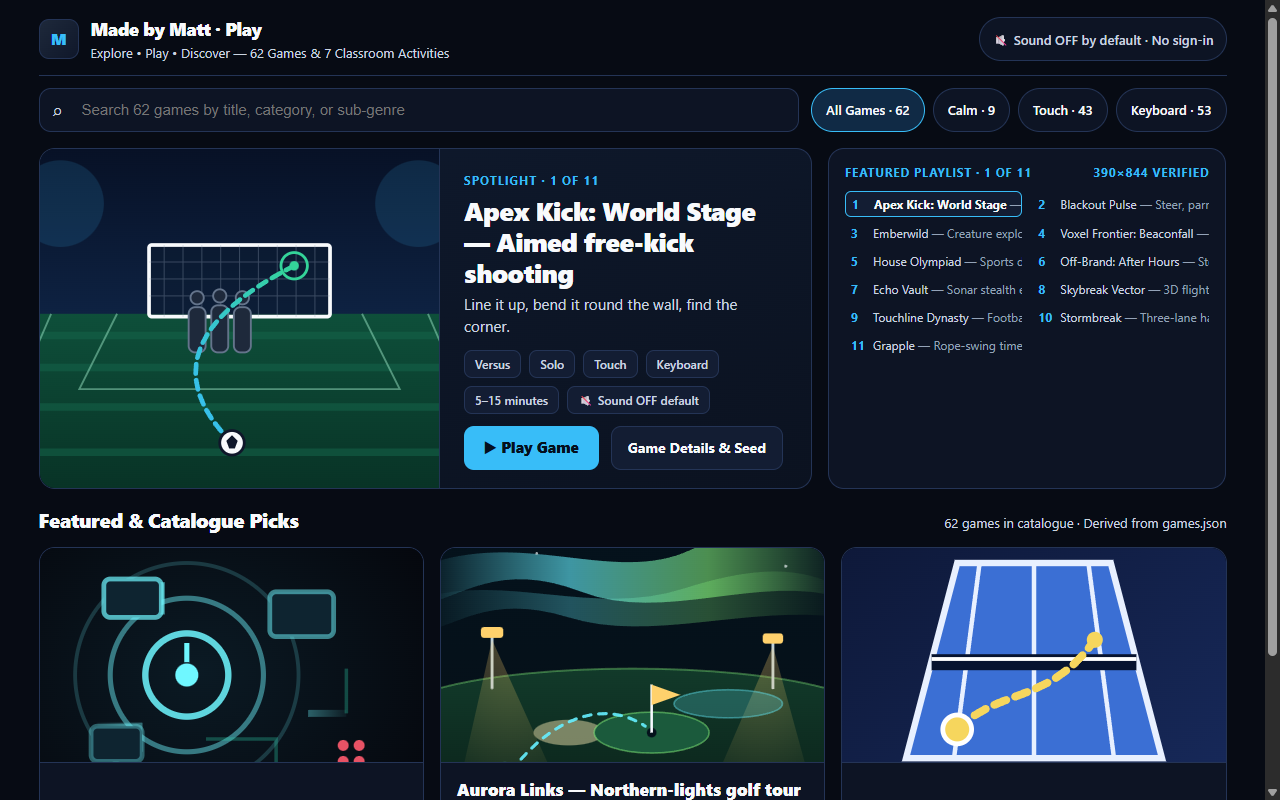
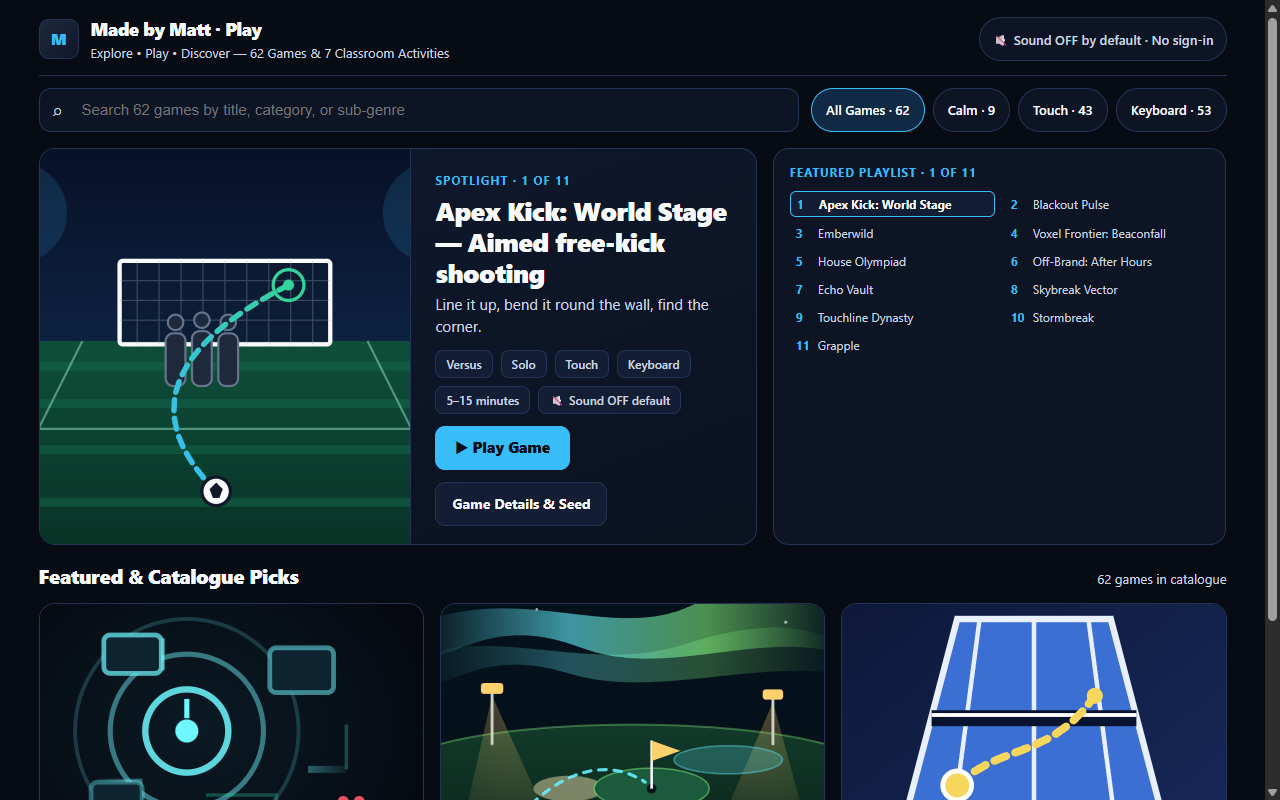
Courier P-26 AAA Play mockups (incl. 390x844 launch page) and updated AAA_PLAY_NOTE.md

diff --git a/scratch_screens/play/AAA_PLAY_NOTE.md b/scratch_screens/play/AAA_PLAY_NOTE.md
@@ -1,7 +1,7 @@
-# AAA Play Design Note — Unified Tile System, Discovery & Accessibility (`P-20-3` / `P-25`)
+# AAA Play Design Note — Unified Tile System, Discovery & Accessibility (`P-20-3` / `P-25` / `P-26`)
 
 **Date:** `2026-11-02`
-**Scope:** Design specification aligning `www.madebymatt-play.uk` with the education design direction across the games index (`/`, `/games/`) and per-game launch pages (`/games/<slug>/`), updated for all `P-25-2(a)–(g)` conditions.
+**Scope:** Design specification aligning `www.madebymatt-play.uk` with the education design direction across the games index (`/`, `/games/`) and per-game launch pages (`/games/<slug>/`), updated for all `P-25-2(a)–(g)` and `P-26-2(a)–(e)` conditions.
 
 ---
 
@@ -12,61 +12,69 @@ Every interactive surface on Play shares a single structural component — **`.p
 | Variant | Grid / Layout | Shared `.play-tile` Primitives |
 | :--- | :--- | :--- |
 | **Hero Spotlight (`.play-tile.hero-tile` / `.spot-card`)** | Desktop: `grid-template-columns: 1.08fr 1fr` with `align-items: stretch` so `.hero-art` / `.spot-card > .thumb` fills 100% of the hero height (`object-fit: cover`, zero dark band beneath art); Phone (`≤ 760 px`): single-column stack (`16:9` art top, body below) | `16 px` border radius, `1 px solid #243456`, `#0D1424` surface, full-height artwork column on desktop, `Spotlight · 1 of 11` kicker + `Title — sub_genre` heading + pitch from `games.json`, data-derived capability chips, primary (`▶ Play Game`) + secondary (`Game Details & Seed`) `≥ 44 px` CTAs |
-| **Shelf & Grid Card (`.play-tile.shelf-card` / `.game-card`)** | Vertical card inside `repeat(auto-fill, minmax(280px, 1fr))` grid (`16 px` gap) | `16:9` picture-only vector artwork header (`border-bottom: 1 px solid #243456`), `16 px` body padding, `Title — sub_genre` heading, plain-English `pitch` from `games.json`, data-derived capability chips (`classroom_facets`, `evidence.controls`, `session_band_labels`) |
-| **Launch Page Preview Card (`.play-tile.launch-tile`)** | `1.15fr 1fr` split card on `/games/<slug>/` (`1fr` stack on mobile) | Full-height artwork frame, data-derived capability chips + `"🔇 Sound OFF by default"` badge, prominent `▶ Launch Fullscreen Game` CTA (`min-height: 48 px`), copyable numeric `Seed` pill (`min-height: 48 px`) matching the game's actual RNG seed format, and 3 data-backed panels (`What You Do (games.json)`, `Controls (evidence.json)`, `Seed, Escape & Local Save`) |
+| **Featured Playlist (`.play-tile.playlist-tile`)** | Desktop companion panel beside Hero Spotlight (`11` ruled picks in 2 columns) | Clean header (`Featured Playlist · 1 of 11` without developer/viewport tags), showing the game name only on each row (`1 Apex Kick: World Stage` … `11 Grapple`) so no row ever cuts mid-word (`P-26-2a`, `P-26-2d`) |
+| **Shelf & Grid Card (`.play-tile.shelf-card` / `.game-card`)** | Vertical card inside `repeat(auto-fill, minmax(280px, 1fr))` grid (`16 px` gap); shelf caption reads `62 games in catalogue` (`P-26-2a`) | `16:9` picture-only vector artwork header (`border-bottom: 1 px solid #243456`), `16 px` body padding, `Title — sub_genre` heading, plain-English `pitch` from `games.json`, data-derived capability chips (`classroom_facets`, `evidence.controls`, `session_band_labels`) |
+| **Launch Page Preview Card (`.play-tile.launch-tile`)** | `1.15fr 1fr` split card on `/games/<slug>/` (`1fr` stack at `390×844`) | Full-height artwork frame, data-derived capability chips + `"🔇 Sound OFF by default"` badge, prominent `▶ Play Game` CTA (`min-height: 48 px` desktop / `44 px` mobile), copyable plain-English `Seed: 1162691141 · Copy link` pill, and 3 plain-English teacher/pupil panels: **`What you do`**, **`Controls`**, and **`Seed, exit and saving`** (`P-26-2b`, `P-26-2c`) |
 
 ---
 
-## 2. Picture-Only Vector Artwork Rules (`P-25-2a`, `P-25-2b`)
+## 2. Picture-Only Vector Artwork & Branded-Object Audit (`P-25-2a`, `P-25-2b`, `P-26-2e`)
 
 1. **Picture-Only `16:9` Vector Artwork per Card (`/assets/cards/<slug>.svg`)**:
-   - **No text inside card art at all (`P-25-2a`)**: Card artwork is strictly picture-only. All `<text>` elements (such as the clipped `"…THE POINT"` header formerly in `apex-tennis.svg`) and `.thumb-block:not(.failed) > .thumb-title` text overlays are stripped/hidden so every card displays clean graphic vector art. (If an `<img>` fails to load and triggers `.thumb-block.failed`, the accessible fallback title remains available.)
+   - **No text inside card art at all (`P-25-2a`)**: Card artwork is strictly picture-only. All `<text>` elements (such as the clipped `"…THE POINT"` header formerly in `apex-tennis.svg`) and `.thumb-block:not(.failed) > .thumb-title` text overlays are stripped/hidden so every card displays clean graphic vector art.
    - **Full-Height Desktop Hero Art (`P-25-2b`)**: On desktop (`> 760 px`), `.hero-art` and `.spot-card > .thumb` stretch to `height: 100%` (`aspect-ratio: auto; object-fit: cover`) of the parent tile so no dark band ever appears beneath the hero artwork.
-2. **Strict Content & Brand Guardrails**:
-   - **No photos of people** (no stock photography, portraits, or avatars).
-   - **No personal names or third-party logos** anywhere in visible text, SVG nodes, CSS classes, or DOM IDs.
+2. **Full 42-Card SVG Audit for Branded-Object Look-Alikes (`P-26-2e`)**:
+   - All **42** `Site/assets/cards/*.svg` files were inspected line by line:
+     - **`emberwild.svg`**: Formerly drew a two-hemisphere red-and-white sphere (`#E8EEF2` circle + `#A04B00` upper half-arc + `#12210F` outline + `#FFC163` center button) at `<g transform="translate(84,40)">` that read as a branded capture ball. Replaced with a tapered **wayfinder lantern** in `Emberwild`'s own emerald and amber palette (`#2E6B3A` roof/base, `#8FE07A` ring, `#FFC163` / `#FFF7D6` glowing lantern pane, `#FFB347` halo).
+     - **All other 41 card SVGs** (`apex-curl.svg`, `apex-golf-door.svg`, `apex-golf.svg`, `apex-pool.svg`, `apex-rally.svg`, `apex-tennis-door.svg`, `apex-tennis.svg`, `apex-velodrome.svg`, `aurora-links-3d.svg`, `axiom-shift.svg`, `biopunk-hive.svg`, `charcoal.svg`, `crown-badge.svg`, `cyberpulse.svg`, `echo-vault.svg`, `fracture-engine.svg`, `global-games.svg`, `house-olympiad.svg`, `lumina-haven.svg`, `micro-tinkerer.svg`, `neon-breach.svg`, `neon-garden.svg`, `neon-siege.svg`, `neon-snake-overdrive.svg`, `neon-sync.svg`, `neon-turf-overdrive.svg`, `off-brand-door.svg`, `off-brand.svg`, `prism.svg`, `relicforge.svg`, `skybreak-vector.svg`, `slipstream-gp.svg`, `slipstream-hyperdraft.svg`, `the-last-lighthouse.svg`, `titan-forge.svg`, `touchline-dynasty.svg`, `town-life.svg`, `trail-runner.svg`, `trekkers-trail-runner-tees-coast.svg`, `voxelcraft.svg`, `wrecking-crew.svg`): Verified clean — **0** branded look-alikes.
+3. **Strict Content & Brand Guardrails**:
+   - **No photos of people**, **no personal names**, and **no third-party logos or branded objects**.
    - **Brand preservation**: `"Made by Matt"` remains intact in the site header and brand metadata per standing rule.
-   - **Intrinsic sizing**: Every card `<img>` sets explicit `width="640" height="360"` (`CLS = 0.000`).
 
 ---
 
-## 3. Ruled Spotlight Order & `390×844` Phone-Load + Controls Gate (`P-25-2d`)
+## 3. Ruled Spotlight Order & `390×844` Phone-Load + Controls Gate (`P-25-2d`, `P-26-2d`)
 
-A game is featured in the Spotlight playlist only after passing its `390×844` (`deviceScaleFactor: 2`, mobile touch emulation) headless Chromium load, zero runtime errors, zero horizontal overflow (`scrollWidth <= 390`), and interactive controls verification. All **11 ruled Spotlight games** passed:
+All **11 ruled Spotlight games** pass `390×844` (`deviceScaleFactor: 2`, mobile touch emulation) headless Chromium load, zero runtime errors, zero horizontal overflow (`scrollWidth <= 390`), and interactive controls verification, and display in the desktop playlist by game name only with zero mid-word truncation (`truncatedPlaylistItems: []`):
 
-| Spotlight Order | Game (`Title — sub_genre`) | Route | `390×844` Load & Overflow | Verified Controls (`evidence.json` + Live DOM) |
-| :---: | :--- | :--- | :---: | :--- |
-| **`1 of 11` (Lead)** | **Apex Kick: World Stage — Aimed free-kick shooting** | `/apexkick/` | `HTTP 200` · `0` errors · `390/390 px` | `touch, keyboard` (`3` canvases, swipe/drag aim + `A/S/D`, `L/C/R`, `Space/Enter`) |
-| **`2 of 11`** | **Blackout Pulse — Steer, parry and surge through neon** | `/cyberpulse/` | `HTTP 200` · `0` errors · `390/390 px` | `touch, keyboard` (`2` canvases, drag/tap parry & overcharge + `WASD/Arrows`, `Space`, `E`) |
-| **`3 of 11`** | **Emberwild — Creature exploration and battles** | `/emberwild/` | `HTTP 200` · `0` errors · `390/390 px` | `touch, keyboard` (`4` canvases, touch D-pad/A/B + `WASD/Arrows`, `Z/Enter/Space`, `X/Esc`, `M`) |
-| **`4 of 11`** | **Voxel Frontier: Beaconfall — Block world building and survival** | `/voxel/` | `HTTP 200` · `0` errors · `390/390 px` | `touch, keyboard` (`2` canvases, touch move/look/break/place + `WASD`, `Space`, `F`, `1–9`, `E`) |
-| **`5 of 11`** | **House Olympiad — Sports-day events for 1–4 houses** | `/houseolympiad/` | `HTTP 200` · `0` errors · `390/390 px` | `touch, keyboard` (`1` canvas, touch/click event controls + `Arrows/WASD`, `Space`, `Enter`) |
-| **`6 of 11`** | **Off-Brand: After Hours — Stealth shifts in a locked-down store** | `/offbrand/` | `HTTP 200` · `0` errors · `390/390 px` | `touch, keyboard, gamepad` (DOM + canvas start, virtual joystick/action buttons + `WASD/Arrows`, `E/Space`) |
-| **`7 of 11`** | **Echo Vault — Sonar stealth extraction** | `/echovault/` | `HTTP 200` · `0` errors · `390/390 px` | `touch, keyboard` (`2` canvases, touch move/clap/hush + `WASD/Arrows`, `Space`, `Shift`, `E`) |
-| **`8 of 11`** | **Skybreak Vector — 3D flight over islands and rings** | `/skybreak/` | `HTTP 200` · `0` errors · `390/390 px` | `touch, keyboard, gamepad` (`2` canvases, `#touch` flight stick & throttle + `W/S/A/D`, `Q/E`, `Space`) |
-| **`9 of 11`** | **Touchline Dynasty — Football club management across seasons** | `/touchline/` | `HTTP 200` · `0` errors · `390/390 px` | `touch, keyboard` (`13` interactive controls, touch/click tactics & matchday UI + `1–5`, `Space`) |
-| **`10 of 11`** | **Stormbreak — Three-lane hazard runner** | `/trailrunner/` | `HTTP 200` · `0` errors · `390/390 px` | `touch, keyboard` (`1` canvas, swipe left/right/up/down + `A/D` or `Left/Right`, `W/Up`, `S/Down`) |
-| **`11 of 11`** | **Grapple — Rope-swing time-trial platformer** | `/Lessons/Games/Grapple.html` | `HTTP 200` · `0` errors · `390/390 px` | `touch, keyboard` (`2` canvases, DPR-aware backing store, hold/release grapple + `Space/Click`, `R`) |
+| Spotlight Order | Playlist Label (`P-26-2d`) | Full Heading (`Title — sub_genre`) | Route | `390×844` Gate |
+| :---: | :--- | :--- | :--- | :---: |
+| **`1 of 11` (Lead)** | **Apex Kick: World Stage** | **Apex Kick: World Stage — Aimed free-kick shooting** | `/apexkick/` | `HTTP 200` · `0` errors · `390/390 px` |
+| **`2 of 11`** | **Blackout Pulse** | **Blackout Pulse — Steer, parry and surge through neon** | `/cyberpulse/` | `HTTP 200` · `0` errors · `390/390 px` |
+| **`3 of 11`** | **Emberwild** | **Emberwild — Creature exploration and battles** | `/emberwild/` | `HTTP 200` · `0` errors · `390/390 px` |
+| **`4 of 11`** | **Voxel Frontier: Beaconfall** | **Voxel Frontier: Beaconfall — Block world building and survival** | `/voxel/` | `HTTP 200` · `0` errors · `390/390 px` |
+| **`5 of 11`** | **House Olympiad** | **House Olympiad — Sports-day events for 1–4 houses** | `/houseolympiad/` | `HTTP 200` · `0` errors · `390/390 px` |
+| **`6 of 11`** | **Off-Brand: After Hours** | **Off-Brand: After Hours — Stealth shifts in a locked-down store** | `/offbrand/` | `HTTP 200` · `0` errors · `390/390 px` |
+| **`7 of 11`** | **Echo Vault** | **Echo Vault — Sonar stealth extraction** | `/echovault/` | `HTTP 200` · `0` errors · `390/390 px` |
+| **`8 of 11`** | **Skybreak Vector** | **Skybreak Vector — 3D flight over islands and rings** | `/skybreak/` | `HTTP 200` · `0` errors · `390/390 px` |
+| **`9 of 11`** | **Touchline Dynasty** | **Touchline Dynasty — Football club management across seasons** | `/touchline/` | `HTTP 200` · `0` errors · `390/390 px` |
+| **`10 of 11`** | **Stormbreak** | **Stormbreak — Three-lane hazard runner** | `/trailrunner/` | `HTTP 200` · `0` errors · `390/390 px` |
+| **`11 of 11`** | **Grapple** | **Grapple — Rope-swing time-trial platformer** | `/Lessons/Games/Grapple.html` | `HTTP 200` · `0` errors · `390/390 px` |
 
 ---
 
-## 4. Build-Time Derived Counts & Per-Game Claims (`P-25-2c`, `P-25-2e`, `P-25-2f`)
+## 4. Plain-English Teacher & Pupil Copy Built from Canonical Data (`P-25-2c/e/f`, `P-26-2a/b/c`)
 
-1. **All Counts Computed at Build Time (`P-25-2f`)**:
-   - Derived directly from `data/source-manifests/games.json` and `domain-split/play/evidence.json` (never typed as literals):
-     - **Catalogue games**: `games.length` = **`62`**
-     - **Classroom activities**: `Object.keys(evidence.games).length - games.length` = **`7`**
-     - **Calm filter count**: `games.filter(g => g.classroom_facets.includes('calm')).length` = **`9`**
-     - **Touch filter count**: `games.filter(g => evidence.games[key].controls.includes('touch')).length` = **`43`**
-     - **Keyboard filter count**: `games.filter(g => evidence.games[key].controls.includes('keyboard')).length` = **`53`**
-2. **Responsive Search Placeholder (`P-25-2c`)**:
-   - At `≤ 760 px` (phone portrait), `#query` / `#search-box` uses `"Search 62 games"` (computed from `data.catalogue` / `games.length`) so the placeholder never truncates.
-3. **Every Per-Game Claim Comes from That Game's Data (`P-25-2e`)**:
-   - **Capability chips**: Built per game from `g.classroom_facets`, `evidence.games[key].controls`, and `manifest.session_band_labels[g.session_band]`.
-   - **What You Do & Controls**: Populated directly from `g.what_you_do` (`games.json`) and `evidence.games[key].instructions` (`evidence.json`).
-   - **Real Seed Format**: For `Emberwild` (`/emberwild/`), the launch page displays its actual 32-bit numeric seed from `emberwild/index.html` (`default 0x454d4245 = 1162691141`, passed via `?seed=1162691141`).
-   - **Escape Exit & Local Save Keys**: Displays `Emberwild`'s actual back/exit binding (`X or Escape to go back`) and exact allowlisted `localStorage` keys from `domain-split/game-storage-allowlist.json` (`mbm_emberwild_AUTOSAVE`, `mbm_emberwild_SLOT_1`).
-   - **Unmeasured HUD Contrast Claim Dropped**: The unverified boilerplate claim `"WCAG AAA 7:1 across all HUD labels"` is removed.
+1. **No Developer Jargon on Any Surface (`P-26-2a`, `P-26-2b`, `P-26-2c`)**:
+   - Playlist header reads `"Featured Playlist · 1 of 11"` (removed `"390×844 VERIFIED"`).
+   - Shelf caption reads `"62 games in catalogue"` (removed `"Derived from games.json"`).
+   - Launch page panel headings read **`"What you do"`**, **`"Controls"`**, and **`"Seed, exit and saving"`** (no file names).
+   - Launch page body is 100% plain English for teachers and pupils — zero code identifiers, DOM selectors, storage keys, or hex literals:
+     - **What you do**:
+       - *"Explore routes with stairs, ledges and tall-grass encounters."*
+       - *"Press as the rings meet for optional bonus power in battle."*
+       - *"Make story choices that lead to one of five futures."*
+     - **Controls**:
+       - *"WASD or arrows to move; Z, Enter, Space or A to interact; X or Escape to go back; M opens the field kit. Touch D-pad available."*
+       - *"Play with touch, keyboard or mouse."*
+       - *"Calm Motion and High Contrast are in Settings."*
+     - **Seed, exit and saving**:
+       - *"Sound starts off. Tap the speaker to turn it on."*
+       - *"Share the seed so the whole class gets the same world."*
+       - *"Progress saves on this device. Press Escape or X to step back at any time."*
+2. **All Counts Computed at Build Time (`P-25-2f`)**:
+   - Catalogue games: **`62`**; Classroom activities: **`7`**; Calm: **`9`**; Touch: **`43`**; Keyboard: **`53`**.
+   - Phone search placeholder at `≤ 760 px`: **`"Search 62 games"`** (`P-25-2c`).
 
 ---
 
@@ -74,23 +82,20 @@ A game is featured in the Spotlight playlist only after passing its `390×844` (
 
 1. **Hub Surface Tokens (`≥ 7:1` Body, `≥ 4.5:1` Large)**:
    - `--bg-canvas`: `#070B14`; `--bg-surface`: `#0D1424`; `--bg-elevated`: `#131D33`; `--border-subtle`: `#243456`
-   - `--text-primary`: `#F8FAFC` (`18.4:1` on canvas, `16.9:1` on surface)
-   - `--text-secondary`: `#CBD5E1` (`12.1:1` on surface)
-   - `--text-muted`: `#94A3B8` (`7.02:1` on surface)
-   - `--accent-primary`: `#38BDF8` (`10.4:1` with `#04101E` CTA ink)
-2. **Calm Mode & `prefers-reduced-motion` (`P-25-2g`)**:
-   - Both `@media (prefers-reduced-motion: reduce)` and `[data-calm="true"]` disable all CSS animations, transitions, transforms, and animated art across hub and launch surfaces (`animation: none !important; transition: none !important; transform: none !important`).
-3. **High Contrast Outranks the Theme (`P-25-2g`)**:
-   - Declared at the end of `play.css` and mockup stylesheets so `@media (prefers-contrast: more), (forced-colors: active)` and `:root[data-contrast="high"], body[data-contrast="high"], .high-contrast` override all theme surface, ink, and border tokens (`#000000` canvas, `#FFFFFF` primary ink, `#94A3B8` high-visibility borders, `#7DD3FC` / `#38BDF8` focus/accent).
+   - `--text-primary`: `#F8FAFC` (`18.4:1` on canvas, `16.9:1` on surface); `--text-secondary`: `#CBD5E1` (`12.1:1` on surface); `--text-muted`: `#94A3B8` (`7.02:1` on surface); `--accent-primary`: `#38BDF8` (`10.4:1` with `#04101E` CTA ink)
+2. **Calm Mode & High Contrast Precedence (`P-25-2g`)**:
+   - `@media (prefers-reduced-motion: reduce)` and `[data-calm="true"]` disable all CSS animations, transitions, and transforms (`!important`).
+   - `@media (prefers-contrast: more), (forced-colors: active)` and `:root[data-contrast="high"], body[data-contrast="high"], .high-contrast` outrank the theme at the end of the stylesheet.
 
 ---
 
-## 6. Updated Scratch Mockup Screenshots (`P-25` Proofs)
+## 6. Updated Scratch Mockup Screenshots (`P-26` Proofs)
 
-Rendered via headless Chromium from `render_aaa_mockups.mjs` using build-time data from `games.json`, `evidence.json`, and `game-storage-allowlist.json`:
+Rendered via headless Chromium from `render_aaa_mockups.mjs` across all four ruled views (`390×844` and `1280×800` for both Home and Launch):
 
-| Mockup View | Viewport | Artifact Path | Scratch Mirror Path | Before (`P-20-3`) Bytes / SHA-256 | After (`P-25`) Bytes / SHA-256 |
-| :--- | :---: | :--- | :--- | :--- | :--- |
[3 lines of base64/hex data omitted]
+| Mockup View | Viewport | Previous (`P-25`) Bytes / SHA-256 | Updated (`P-26`) Bytes / SHA-256 |
+| :--- | :---: | :--- | :--- |
[4 lines of base64/hex data omitted]
